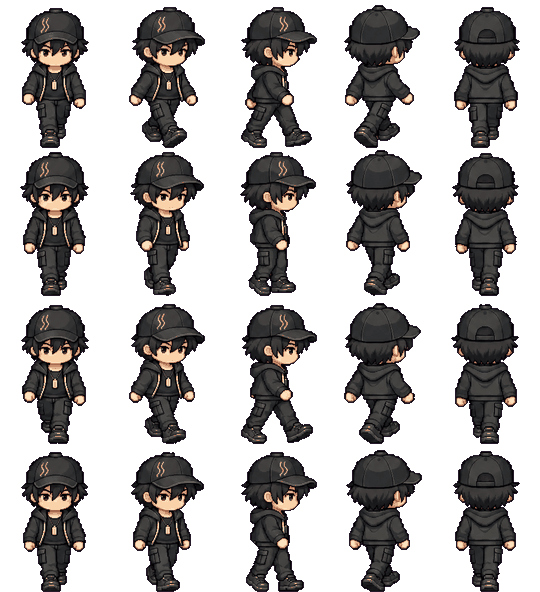
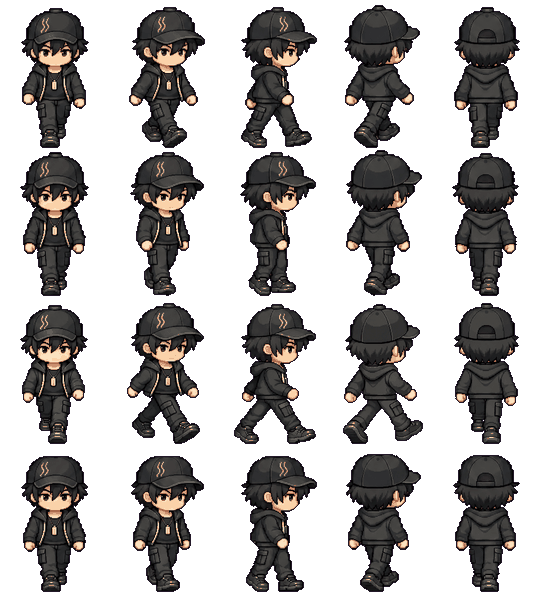
Balance arcade walking pace and alternate foot contacts

diff --git a/remake/street/scene.js b/remake/street/scene.js
@@ -7,11 +7,11 @@ const params = new URLSearchParams(location.search), night = params.get('night')
 const dirs = ['down', 'down_right', 'right', 'up_right', 'up'];
 const mirror = { down_left: 'down_right', left: 'right', up_left: 'up_right' };
 let host, ready = false, wasPaused = true, alwaysRun = false, target = null, message = '', travel = false, dragging = false;
-let player = { ...SPAWN }, cam = camera(SPAWN), walked = 0, strideDistance=0, moving = false, last = performance.now();
-const gaitPhase = () => strideDistance/STRIDE_LENGTH%1;
+let player = { ...SPAWN }, cam = camera(SPAWN), walked = 0, strideDistance=0, gaitDistance=0, moving = false, last = performance.now();
+const gaitPhase = () => gaitDistance/STRIDE_LENGTH%1;
 const gaitFrame = () => walkerFrame(gaitPhase(), moving);
 const keys = new Set();
-const stop = () => { keys.clear(); target = null; moving = false; dragging = false; };
+const stop = () => { keys.clear(); target = null; moving = false; gaitDistance = 0; dragging = false; };
 const paused = () => !host || host.paused() || document.hidden;
 const focus = () => canvas.focus({ preventScroll: true });
 function fit() { $('#stage').style.setProperty('--k', Math.min(innerWidth / VIEW.w, innerHeight / VIEW.h)); }
@@ -89,10 +89,10 @@ function update(dt) {
   if (target) { goal={x:target.x,y:target.y}; const destination=walkingPoint(unproject(goal.x,goal.y)), current=walkingPoint(player); dx=destination.x-current.x; dy=destination.y-current.y; }
   const len=Math.hypot(dx,dy), run=alwaysRun||keys.has('ShiftLeft')||keys.has('ShiftRight');
   moving=len>.0001;
-  if (!moving) { if (target) { const {door:d,back}=target; target=null; if(back)host.back();else if(d)enter(d); } return; }
+  if (!moving) { gaitDistance=0; if (target) { const {door:d,back}=target; target=null; if(back)host.back();else if(d)enter(d); } return; }
   player.dir=direction(dx,dy);
   const moved=moveOnFloor(player,dx,dy,dt,run,goal),distance=groundDistance(player,moved.player);
-  Object.assign(player,moved.player); moving=distance>1e-6; walked+=distance;strideDistance+=moved.distance;cam=camera(player);
+  Object.assign(player,moved.player); moving=distance>1e-6; walked+=distance;strideDistance+=moved.distance;gaitDistance=moving?gaitDistance+moved.distance:0;cam=camera(player);
   if (target && moved.arrived) { const {door:d,back}=target; stop(); if(back)host.back();else if(d)enter(d); return; }
   if (!target && player.z===0 && dy>0) { stop(); host.back(); }
 }

diff --git a/remake/street/model.js b/remake/street/model.js
@@ -6,6 +6,8 @@ export const SPAWN = { x: 0, z: .04, dir: 'up' };
 export const CHARACTER_HEIGHT = 302.4;
 // 背景上の移動量を人物高で校正する。奥行きの二乗で縦移動を遅くしない。
 export const WALK_SPEED = 420, RUN_SPEED = 660, STRIDE_LENGTH = 250;
+// 通りの縦方向は遠近で画面上の距離が短い。端までの所要時間を横歩きと揃える。
+export const SIDE_SPEED = 1.1, DEPTH_SPEED = .55;
 const CAMERA_ZOOM_EXPONENT = .55;
 export const DOORS = [
   { id: 'cafe', rect: [54, 270, 150, 270], foot: [235, 592], label: [160, 252] },
@@ -52,14 +54,19 @@ function unprojectWalkingPoint(x,y) {
 export function moveOnFloor(player, dx, dy, dt, run=false, goal=null) {
   const start=walkingPoint(player),len=Math.hypot(dx,dy);
   if(len<1e-6)return { player:{...player},distance:0,arrived:!!goal };
-  const speed=run?RUN_SPEED:WALK_SPEED,k=dy/len*speed/FLOOR.rise;
+  // 斜めも向きを変えず、横・奥行きそれぞれの距離に応じて速さを決める。
+  const nx=dx/len,ny=dy/len;
+  const pace=1/Math.hypot(nx/SIDE_SPEED,ny/DEPTH_SPEED);
+  const speed=(run?RUN_SPEED:WALK_SPEED)*pace;
+  const k=ny*speed/FLOOR.rise;
   const step=speed*start.scale*(Math.abs(k)<1e-9?dt:Math.expm1(k*dt)/k);
   const goalPoint=goal?walkingPoint(unproject(goal.x,goal.y)):null;
   const remaining=goalPoint?Math.hypot(goalPoint.x-start.x,goalPoint.y-start.y):Infinity;
   const amount=Math.min(step,remaining);
-  const next=constrain(unprojectWalkingPoint(start.x+dx/len*amount,start.y+dy/len*amount));
+  const next=constrain(unprojectWalkingPoint(start.x+nx*amount,start.y+ny*amount));
   const end=walkingPoint(next),scale=(start.scale+end.scale)/2;
-  return {player:next,distance:Math.hypot(end.x-start.x,end.y-start.y)/scale,
+  // 遠近による画面上の歩幅差を補正し、向きが変わっても足運びの周期を保つ。
+  return {player:next,distance:Math.hypot(end.x-start.x,end.y-start.y)/scale/pace,
     arrived:!!goalPoint&&Math.hypot(end.x-goalPoint.x,end.y-goalPoint.y)<1e-4};
 }
 export function toScreen(x, y, cam) { return { x: x * cam.zoom + cam.tx, y: y * cam.zoom + cam.ty }; }

diff --git a/asset_sources/street-production-issue471/README.md b/asset_sources/street-production-issue471/README.md
@@ -6,6 +6,8 @@
 
 生成は内蔵image_gen。画像は新しい専用ファイルへ保存し、既存の試作用原画・背景・歩行絵を上書きしていない。昼夜は1664×936のままWebPへ変換。歩行絵は既存 `tools/proto_walk_sheet.py` の共通縮尺/足元揃え/64色を使う4行用ラッパー `tools/street_walk_cycle_sheet.py` で変換。オーナーの「奥で見えなくなる/扉より小さい」指摘で144dotを採用し、さらに「歩き方/ズームが不自然」を受け、左右の接地と中間姿勢の4コマへ。2コマの72/144版は比較用。原画からの縮小であり、72dotの拡大ではない。
 
+2026-10-26 の歩行修正: 上記原画の3行目は全方向で1行目と同じ脚が前へ出ていた。`hajime-opposite-contact-{down,down-right,right,up-right,up}.png` を各方向の反対脚接地の原画として生成し、5方向の3行目へ合成した `hajime-walk-cycle-opposite-contact-original.png` を新しい変換元にした。ゲーム用144dotシートは下記と同じ `tools/street_walk_cycle_sheet.py` の設定でこの変換元から再作成。脚の前後と靴底をゲーム用シートでも確認した。
+
 変換: `python3 tools/street_walk_cycle_sheet.py asset_sources/street-production-issue471/hajime-walk-cycle-pose-original.png --out-dir assets/street_walk --name hajime_walk_cycle --sizes 144 --rows 4 --colors 64 --mirror-step '' --no-preview`。4行は行間が狭いため塊の結合を1pxとし、20体を分離できなければ停止する。等分切り出しで帽子/靴を切らない。今回の等分切り出し初回は不採用にし、分離後の全コマを確認した。横移動の根元を足の重心から胴の中心へ揃え、歩幅で腰が左右にずれないようにした。
 
 オーナーの「全方向歩いて検証」「歩くたびしゃがむ」「横の足が変」を受け、実キーで8方向/32姿勢を採取。最初の4コマは移動テストが通っても、横/斜めの脚が同じで上半身の縮尺も変わるため視覚QA不合格とした。`hajime-four-pose-guide.png` の赤/青は左右の脚を区別する制作参照のみで、ゲームに色線を表示しない。接地/中間姿勢を修正し、描画時の上半身は方向ごとに同じ登録姿勢を使う。上下のボブは除去し、脚の4コマだけを移動距離に連動させる。歩行速度は0.45から0.75（約1.67倍）、ダッシュは0.8から1.2へ変更した。ゲームの体力・時間等の消費ではなく、このCanvas内の移動速度だけ。
